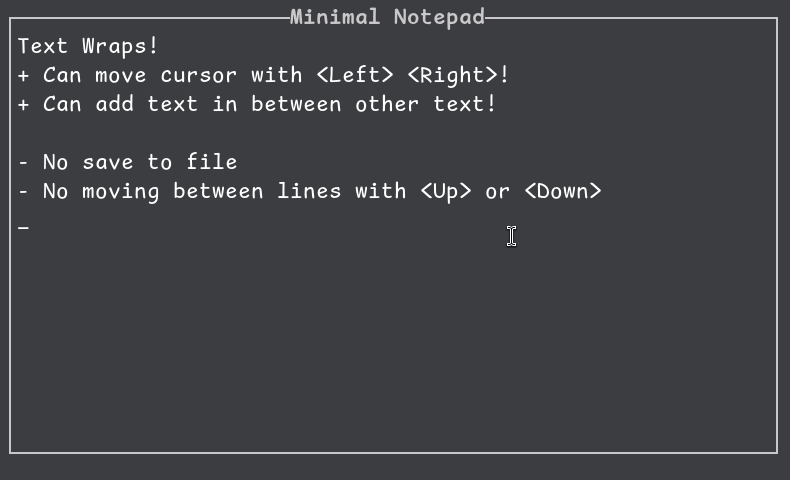
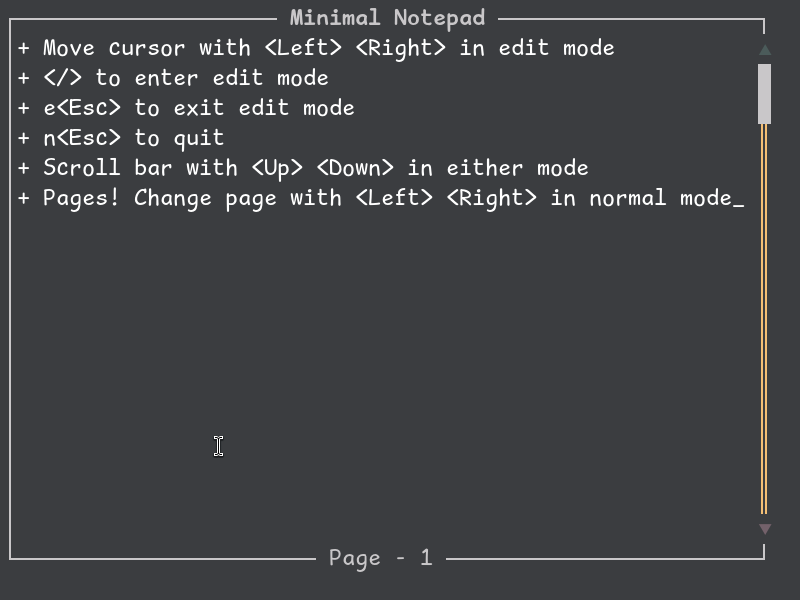
add scroll bar and pages

Changed region(s): [[0.0, 0.0, 1.0, 0.9688], [0.6684, 0.375, 0.7595, 0.4375], [0.638, 0.4688, 0.6684, 0.5312]]

diff --git a/src/main.rs b/src/main.rs
@@ -5,12 +5,15 @@ use crossterm::{
 };
 use ratatui;
 use ratatui::backend::CrosstermBackend as Backend;
-use ratatui::style::Stylize;
 use ratatui::text::{Line, Span, Text};
-use ratatui::widgets::{Row, Wrap};
-
+use ratatui::widgets::{Row, Wrap, Scrollbar, ScrollbarOrientation, ScrollbarState};
+use ratatui::style::{Color, Stylize};
 mod event;
 use event::{Event, EventHandler};
+use ratatui::layout::{Constraint, Layout, Margin, Rect};
+use ratatui::symbols::scrollbar::Set;
+
+
 
 #[tokio::main]
 async fn main() {
@@ -30,12 +33,28 @@ enum Mode {
     Input,
 }
 
+#[derive(Default)]
+pub struct Page {
+    pub mouse_pos: usize,
+    pub buffer: Vec<u8>,
+    pub scrollbar: ScrollbarState,
+}
+
+impl Page {
+    pub fn new() -> Self {
+        Self {
+            scrollbar: ScrollbarState::new(100),
+            buffer: Vec::new(),
+            mouse_pos: 0
+        }
+    }
+}
 
 pub struct App {
     quit: bool,
-    buffer: Vec<u8>,
+    pages: Vec<Page>,
+    page: usize,
     mode: Mode,
-    mouse_pos: usize,
     events: EventHandler,
     control: bool,
 }
@@ -44,9 +63,9 @@ impl App {
     pub fn new(events: EventHandler) -> Self {
         Self {
             quit: false,
-            buffer: Vec::new(),
+            pages: vec![Page::new()],
+            page: 0,
             mode: Mode::Input,
-            mouse_pos: 0,
             events,
             control: false,
         }
@@ -71,24 +90,51 @@ impl App {
         };
         use ratatui::text::Line;
         use ratatui::widgets::{Block, Paragraph};
+        
+        let layout = Layout::horizontal([
+            Min(0),
+            Length(1),
+        ]);
 
-        let main_area= frame.area();
+
+        let [main_area, scroll_area] = frame.area().layout(&layout);
 
         let main_block = Block::bordered().title(Line::from(match self.mode {
-            Mode::Input => "Minimal Notepad",
-            Mode::Normal => "<Esc> quit - </> Edit",
-        }).bold().centered());
+            Mode::Input => " Minimal Notepad ",
+            Mode::Normal => " Minimal Notepad </> to edit ",
+        }).bold().centered()).title_bottom(Line::from(format!(" Page - {} ", self.page + 1)).centered());
 
-        let mut cbuf = self.buffer.clone();
-        cbuf.insert(self.mouse_pos, b' ');
-        cbuf[self.mouse_pos] = b'_';
+        let mut cbuf = self.pages[self.page].buffer.clone();
+        cbuf.insert(self.pages[self.page].mouse_pos, b' ');
+        cbuf[self.pages[self.page].mouse_pos] = b'_';
         let buffer = String::from_utf8(cbuf)
             .expect("Invalid Char");
 
 
         let text = Text::from(format!("{}", buffer)).white();
 
-        frame.render_widget(Paragraph::new(text).block(main_block).wrap(Wrap {trim: false}), main_area);
+        frame.render_widget(Paragraph::new(text)
+            .block(main_block)
+            .wrap(Wrap {trim: false})
+            .scroll((self.pages[self.page].scrollbar.get_position() as u16, 0)),
+        main_area);
+
+
+        let scrollbar = Scrollbar::new(ScrollbarOrientation::VerticalRight)
+            .track_style(Color::Yellow)
+            .begin_style(Color::Green)
+            .end_style(Color::Red);
+
+
+
+        frame.render_stateful_widget(
+            scrollbar,
+            main_area.inner(Margin {
+                vertical: 1,
+                horizontal: 0,
+            }),
+            &mut self.pages[self.page].scrollbar,
+        );
     }
 
     pub async fn handle_events(&mut self) -> std::io::Result<()> {
@@ -112,6 +158,10 @@ impl App {
         match key {
             KeyCode::Esc => self.stop().await,
             KeyCode::Char('/') => self.mode = Mode::Input,
+            KeyCode::Left => { if self.page != 0 {self.page -= 1}}
+            KeyCode::Right => { self.page += 1; if self.page + 1 > self.pages.len() {self.pages.push(Page::default())}}
+            KeyCode::Up => self.pages[self.page].scrollbar.prev(),
+            KeyCode::Down => self.pages[self.page].scrollbar.next(),
             _ => {}
         }
     }
@@ -128,24 +178,27 @@ impl App {
         }
     }
     pub async fn input_mode_event(&mut self, key: KeyCode) {
+        let mouse_pos = self.pages[self.page].mouse_pos;
         match key {
-            KeyCode::Esc => self.stop().await,
+            KeyCode::Esc => self.mode = Mode::Normal,
             KeyCode::Char(c) => {
-                self.buffer.insert(self.mouse_pos, c as u8); 
-                self.mouse_pos += 1;
+                self.pages[self.page].buffer.insert(mouse_pos, c as u8); 
+                self.pages[self.page].mouse_pos += 1;
             },
             KeyCode::Backspace => { 
-                if self.buffer.len() != 0 {
-                    let _char = self.buffer.remove(self.mouse_pos - 1); 
+                if self.pages[self.page].buffer.len() != 0 {
+                    let _char = self.pages[self.page].buffer.remove(mouse_pos - 1); 
                 }
-                if self.mouse_pos != 0 {self.mouse_pos -= 1};
+                if mouse_pos != 0 {self.pages[self.page].mouse_pos -= 1};
             },
-            KeyCode::Enter => {self.buffer.insert(self.mouse_pos, b'\n');
-                self.mouse_pos += 1;
+            KeyCode::Enter => {self.pages[self.page].buffer.insert(mouse_pos, b'\n');
+                self.pages[self.page].mouse_pos += 1;
             },
             //KeyCode::Tab => {self.buffer.extend(b"    ")},
-            KeyCode::Left => if self.mouse_pos != 0 {self.mouse_pos -= 1;},
-            KeyCode::Right => if self.mouse_pos < self.buffer.len() {self.mouse_pos += 1},
+            KeyCode::Left => if mouse_pos != 0 {self.pages[self.page].mouse_pos -= 1;},
+            KeyCode::Right => if mouse_pos < self.pages[self.page].buffer.len() {self.pages[self.page].mouse_pos += 1},
+            KeyCode::Up => self.pages[self.page].scrollbar.prev(),
+            KeyCode::Down => self.pages[self.page].scrollbar.next(),
             _ => {}
         }
     }